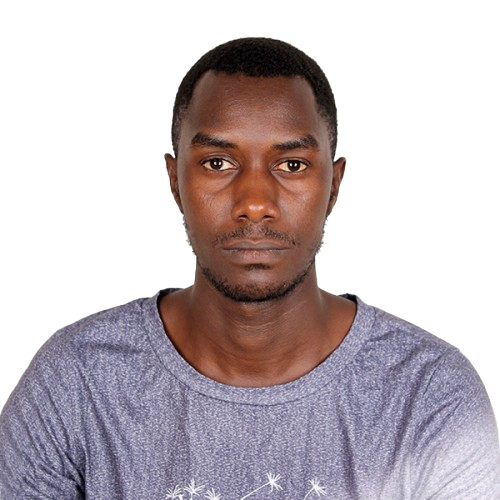
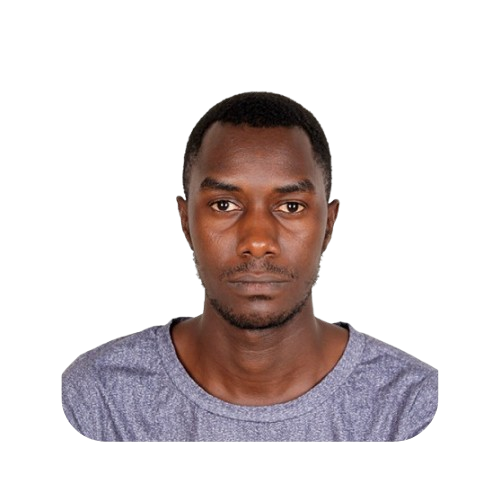
Fix: image size

diff --git a/portfolio/src/app/contact/page.tsx b/portfolio/src/app/contact/page.tsx
@@ -53,7 +53,7 @@ function Contact() {
             {/* form */}
             <div className="order-2 xl:order-none xl:w-[50%]">
               <form className="flex flex-col gap-6 rounded-xl bg-[#27272c] p-10">
-                <h3>Let's work together.</h3>
+                <h3>Let&apos;s work together.</h3>
                 <p className="mb-6 text-white/80">
                   I am always open to discussing product design work or
                   partnerships.

diff --git a/portfolio/src/app/page.tsx b/portfolio/src/app/page.tsx
@@ -13,7 +13,7 @@ export default function Home() {
           <div className="order-2 mb-8 text-center xl:order-none xl:mb-0 xl:text-left">
             <span className="text-xl">Software Developer</span>
             <h1 className="h1 mb-6">
-              Hello I'm <br />
+              Hello I&apos;m <br />
               <span className="text-accent">Kelvin Chepkwony</span>
             </h1>
             <p className="mb-9 max-w-[500px] text-white/80">
